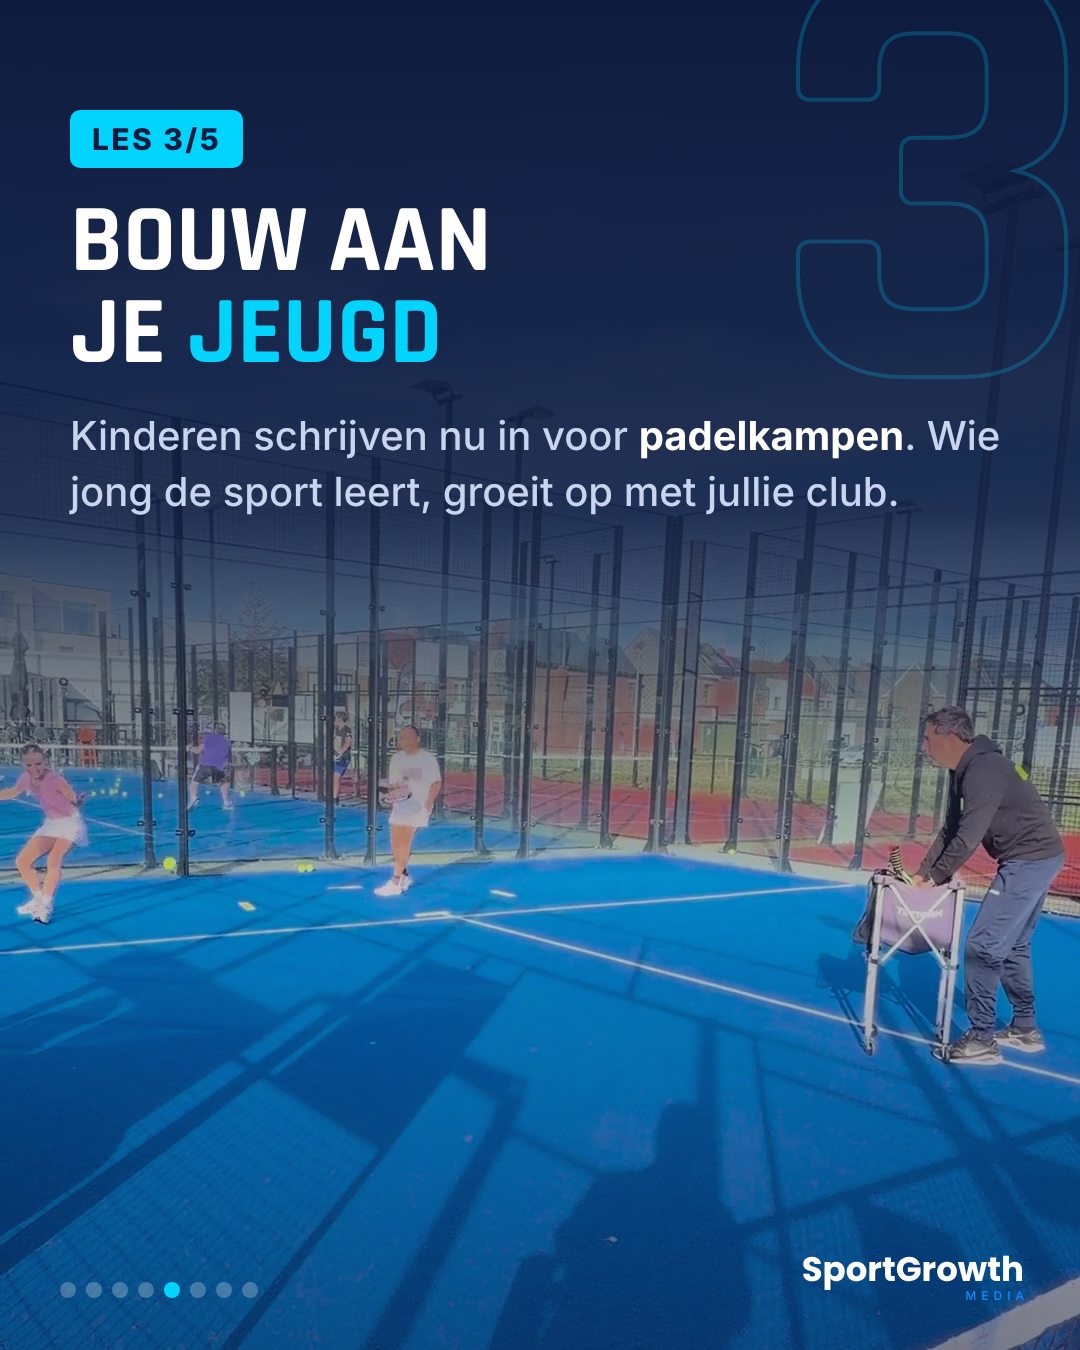
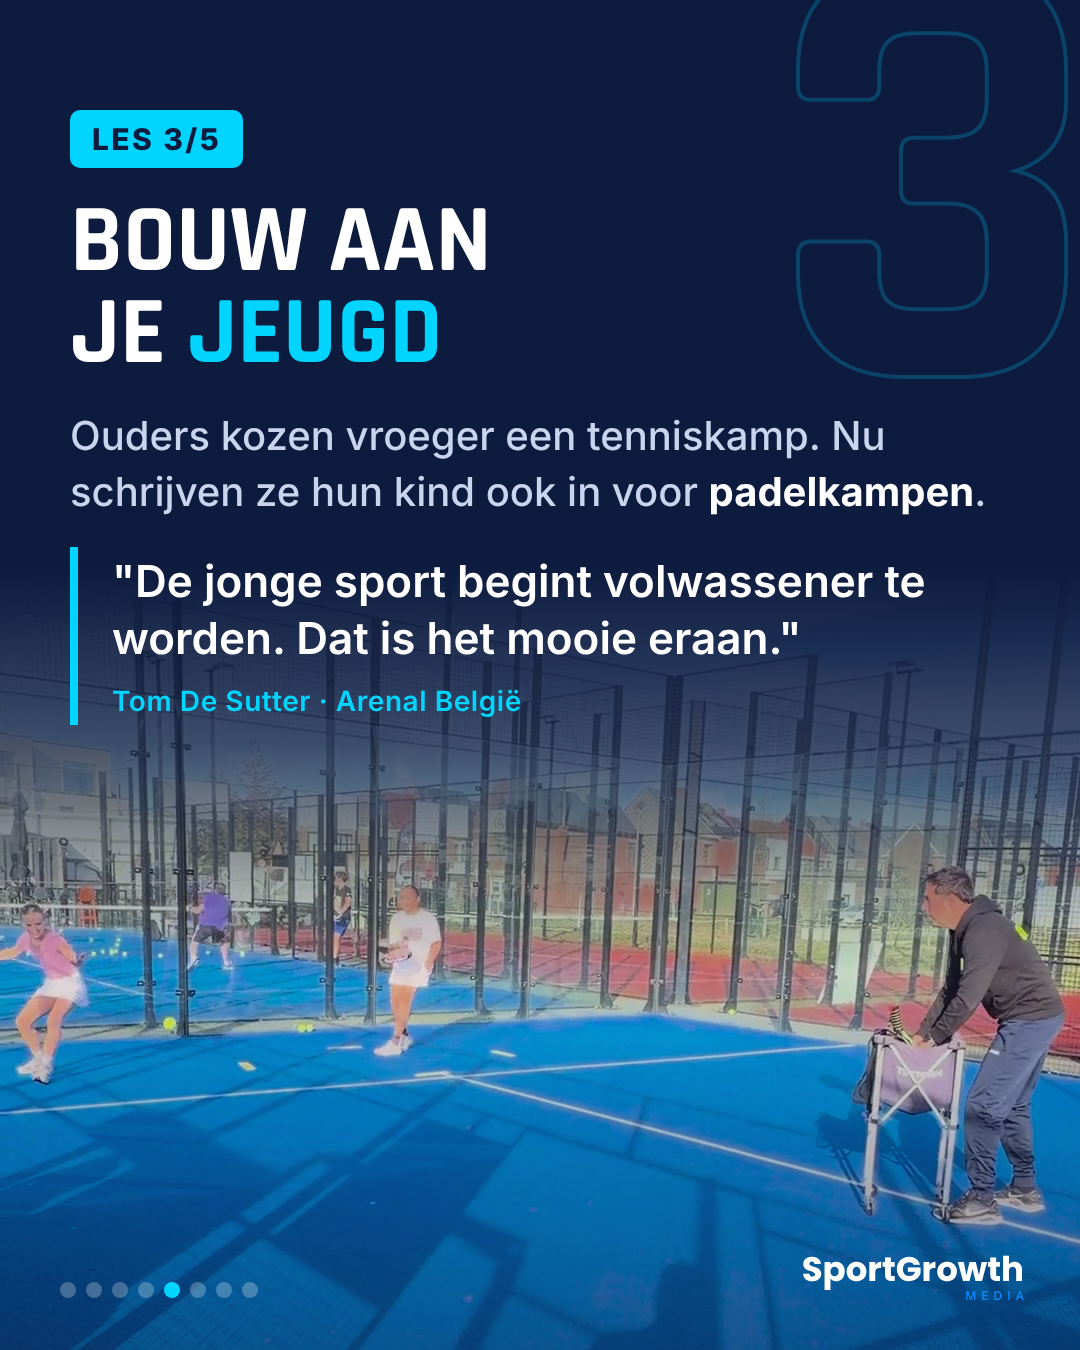
Carrousel hype: citaat Tom bij jeugd
Claude-Session: https://claude.ai/code/session_01QkSWZzWLTduRQtPp2zathG

diff --git a/instagram/carrousel-hype-gewoonte/build.js b/instagram/carrousel-hype-gewoonte/build.js
@@ -87,13 +87,14 @@ S.push(page(4, `
 
 // 5 LES 3
 S.push(page(5, `
-<div class="bg" style="background-image:${i64(OUT + '/jeugd.jpg')};background-position:center 70%"></div>
-<div class="dim" style="background:linear-gradient(180deg,#0d1b3e 0%,rgba(13,27,62,.88) 38%,rgba(13,27,62,.2) 65%,rgba(13,27,62,.55) 100%)"></div>
+<div class="bg" style="background-image:${i64(OUT + '/jeugd.jpg')};background-size:100% auto;background-repeat:no-repeat;background-position:center 160px"></div>
+<div class="dim" style="background:linear-gradient(180deg,#0d1b3e 0%,#0d1b3e 42%,rgba(13,27,62,.75) 55%,rgba(13,27,62,.1) 72%,rgba(13,27,62,.5) 100%)"></div>
 <div class="num">3</div>
 <div class="col" style="top:110px">
 <span class="tag">LES 3/5</span>
 <h2>Bouw aan<br>je <span class="c">jeugd</span></h2>
-<p class="t">Kinderen schrijven nu in voor <b>padelkampen</b>. Wie jong de sport leert, groeit op met jullie club.</p>
+<p class="t">Ouders kozen vroeger een tenniskamp. Nu schrijven ze hun kind ook in voor <b>padelkampen</b>.</p>
+<div class="q">"De jonge sport begint volwassener te worden. Dat is het mooie eraan."<small>Tom De Sutter · Arenal België</small></div>
 </div>`));
 
 // 6 LES 4

diff --git a/klanten/flaxx/interviews.md b/klanten/flaxx/interviews.md
@@ -113,3 +113,8 @@ Ine: "Het is geen tennis, hè?"
 Tom: "Nee, het is geen tennis. En veel mensen dachten ook: is dit squash, een combinatie van tennis en squash? Nee, het is gewoon padel. We merkten het ook in onze eerste club: we hadden een 80 leden, het jaar erop 160 leden. Dus we hadden een mooie verdubbeling van het aantal leden. Iedereen die het speelde, was direct mee in het verhaal."
 - Carrousel ma 2/11: les "Uitleg en een eerste keer spelen = de beste marketing" met het cijfer 80 → 160 leden (verdubbeling in 1 jaar).
 - Cijfer = sterke cover-kandidaat ("Van 80 naar 160 leden in één jaar").
+
+### P4 · Tom De Sutter over jeugd (notitie Jari, geen clip)
+Context: ouders kozen de eerste jaren voor tenniskamp of tennislessen, nu schrijven ze hun kind ook in voor padelkampen.
+Tom: "De jonge sport begint volwassener te worden. Dat is het mooie eraan."
+→ carrousel ma 2/11, slide 5.
